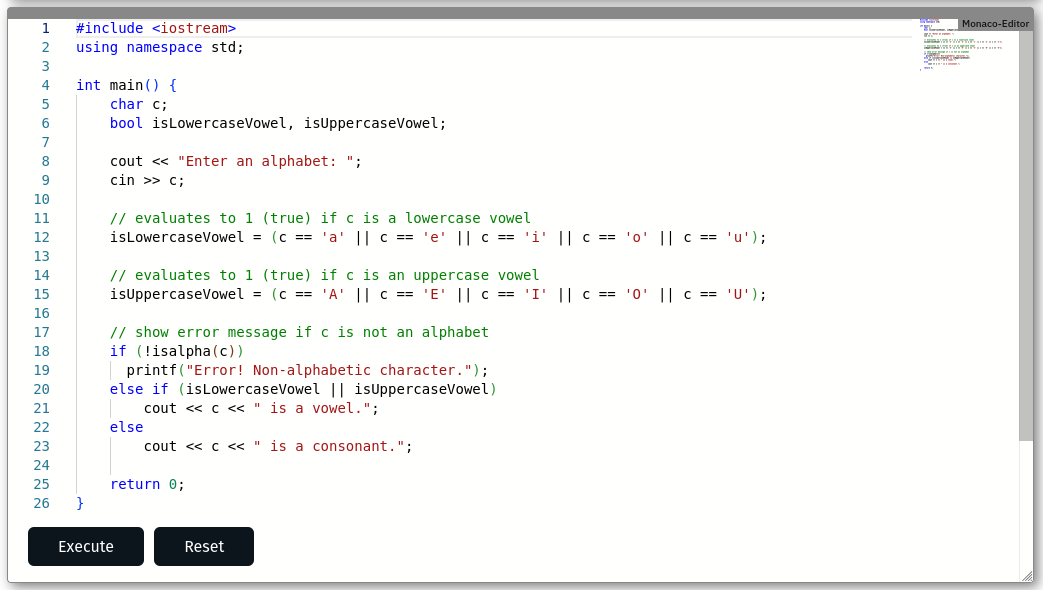
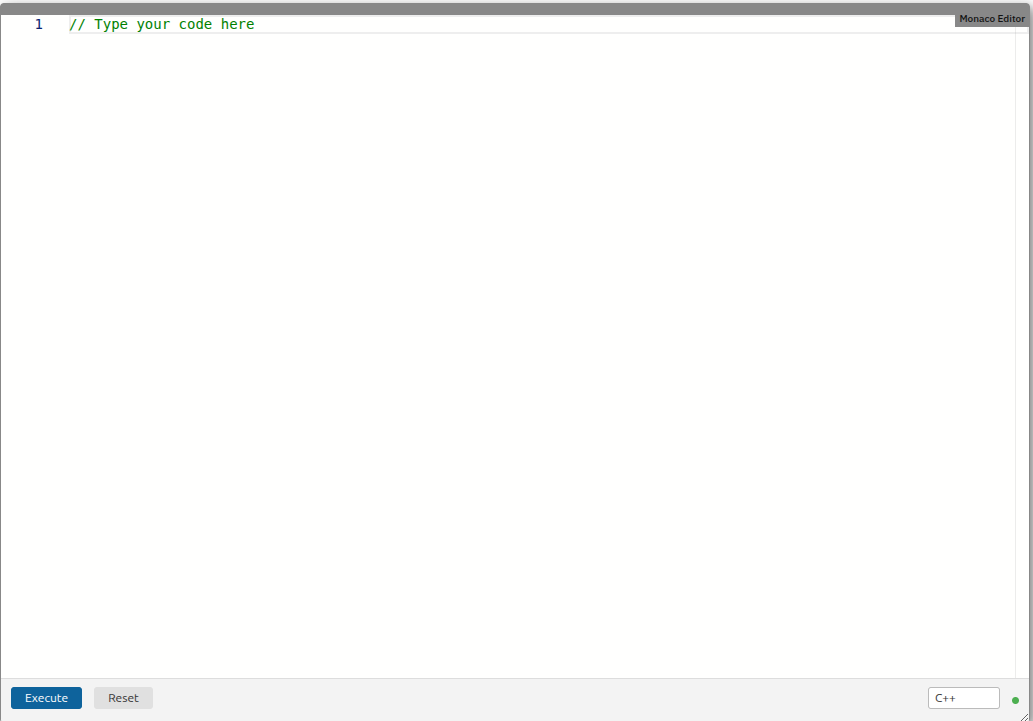
update readme

diff --git a/docs/index.html b/docs/index.html
@@ -33,4 +33,4 @@
             'hint': 'Show language selector in the toolbar (teachers only, default: true)'
           },
         }
-      }"><link rel="stylesheet" href="index.9fdb7ca0.css"><script src="http://127.0.0.1:6999/edrys.js"></script><script src="index.9d966c0e.js" defer></script><link rel="stylesheet" href="index.a35e33d9.css"><link rel="stylesheet" href="https://edrys-labs.github.io/module/vendor/water.min.css"><link rel="stylesheet" href="index.eb0a0ee2.css"></head><body> <div id="editor"></div> <div id="controls"> <button id="btn-execute" onclick="execute()">Execute</button> <button id="btn-reset" onclick="reset()">Reset</button> <select id="lang-select" onchange="setLanguage(this.value)"> <option value="cpp">C++</option> <option value="c">C</option> <option value="python">Python</option> <option value="javascript">JavaScript</option> <option value="typescript">TypeScript</option> <option value="java">Java</option> <option value="csharp">C#</option> <option value="go">Go</option> <option value="rust">Rust</option> <option value="bash">Bash</option> <option value="sql">SQL</option> <option value="html">HTML</option> <option value="css">CSS</option> <option value="json">JSON</option> <option value="yaml">YAML</option> <option value="markdown">Markdown</option> <option value="plaintext">Plain Text</option> </select> <span id="lang-badge"></span> <span id="sync-dot" title="Synced"></span> </div> </body></html>
+      }"><link rel="stylesheet" href="index.9fdb7ca0.css"><script src="https://edrys-labs.github.io/module/edrys.js"></script><script src="index.9d966c0e.js" defer></script><link rel="stylesheet" href="index.a35e33d9.css"><link rel="stylesheet" href="https://edrys-labs.github.io/module/vendor/water.min.css"><link rel="stylesheet" href="index.eb0a0ee2.css"></head><body> <div id="editor"></div> <div id="controls"> <button id="btn-execute" onclick="execute()">Execute</button> <button id="btn-reset" onclick="reset()">Reset</button> <select id="lang-select" onchange="setLanguage(this.value)"> <option value="cpp">C++</option> <option value="c">C</option> <option value="python">Python</option> <option value="javascript">JavaScript</option> <option value="typescript">TypeScript</option> <option value="java">Java</option> <option value="csharp">C#</option> <option value="go">Go</option> <option value="rust">Rust</option> <option value="bash">Bash</option> <option value="sql">SQL</option> <option value="html">HTML</option> <option value="css">CSS</option> <option value="json">JSON</option> <option value="yaml">YAML</option> <option value="markdown">Markdown</option> <option value="plaintext">Plain Text</option> </select> <span id="lang-badge"></span> <span id="sync-dot" title="Synced"></span> </div> </body></html>

diff --git a/README.md b/README.md
@@ -1,30 +1,76 @@
 # Module Monaco Editor
 
-This is a collaborative code editor for Edrys-Lite.
+A collaborative code editor module for [Edrys-Lite](https://github.com/edrys-labs/edrys-Lite) classrooms, built on [Monaco Editor](https://microsoft.github.io/monaco-editor/) with real-time CRDT sync.
 
 ![screen](./screenshot.png)
 
 ## Usage
 
-Use this URL to add the module to your Edrys-Lite classroom:
+Add this URL to your Edrys-Lite classroom:
 
-```html
+```
 https://edrys-labs.github.io/module-monaco-editor/
 ```
 
-You may optionally specify any of the following module config, the `runCommand` is the only setting that is required:
+## Configuration
+
+All fields are optional unless noted.
 
 ```json
 {
-    "value": "Starting text in editor...",
-    "runCommand": "execute", 
-    "language": "cpp",
-    "theme": "vs-light" # or "vs-dark",
-    "synchronize": false
+  "value": "// initial code shown in the editor",
+  "runCommand": "execute",
+  "language": "cpp",
+  "theme": "vs-dark",
+  "synchronize": true,
+  "readOnly": false,
+  "showLanguageSelector": true,
+  "editorId": "editor1"
 }
 ```
 
-`runCommand` defines the subject under which the current editor-input will be published.
-Other modules such as the [edrys_module-pyxtermjs](https://github.com/Cross-Lab-Project/edrys_module-pyxtermjs) can be configured to listen to this specific subject and execute some action when they receive this event.
+| Field | Type | Default | Description |
+|---|---|---|---|
+| `value` | string | `""` | Initial code pre-loaded into the editor. Also used as the reset target. |
+| `runCommand` | string | `"execute"` | Message subject sent to other modules when Execute is clicked. |
+| `language` | string | `"cpp"` | Editor language. Any Monaco-supported language is valid (e.g. `python`, `javascript`, `rust`). |
+| `theme` | string | system preference | Editor color theme: `vs-dark` or `vs-light`. Defaults to the OS dark/light preference. |
+| `synchronize` | boolean | `true` | Sync editor content in real time across all peers in the room via CRDT. |
+| `readOnly` | boolean | `false` | Make the editor read-only for all roles. |
+| `showLanguageSelector` | boolean | `true` | Show the language dropdown in the toolbar (teachers and stations only). |
+| `editorId` | string | `"default"` | Unique namespace for shared state. **Required when using multiple editors in the same room** — set a different value on each instance (e.g. `"editor1"`, `"editor2"`). |
 
-By default, the editor will be synchronized with the other students in the classroom. If you want to disable this feature, set `synchronize` to `false`.
+## Role behavior
+
+| Feature | Student | Teacher | Station |
+|---|---|---|---|
+| Edit code | yes | yes | yes |
+| Execute button | yes | yes | yes |
+| Reset button | no | yes (requires `value`) | yes (requires `value`) |
+| Language selector | no | yes | yes |
+
+Setting `readOnly: true` hides Execute and disables editing for all roles.
+
+## Connecting to other modules
+
+`runCommand` defines the message subject published when Execute is clicked. The message body is the current editor content (or the selected text if a selection exists).
+
+Modules like [pyxtermjs](https://github.com/Cross-Lab-Project/edrys_module-pyxtermjs) can be configured to listen on this subject and execute the received code.
+
+## Multiple editors in the same room
+
+When placing more than one Monaco Editor module in the same room, set a unique `editorId` on each instance. Without it, all instances share the same CRDT state and will mirror each other.
+
+```json
+{ "editorId": "editor1", "language": "cpp" }
+{ "editorId": "editor2", "language": "python" }
+```
+
+## Development
+
+```bash
+nvm use 24
+npm install
+npm run watch   # dev server on port 3001
+npm run build   # production build → docs/
+```
